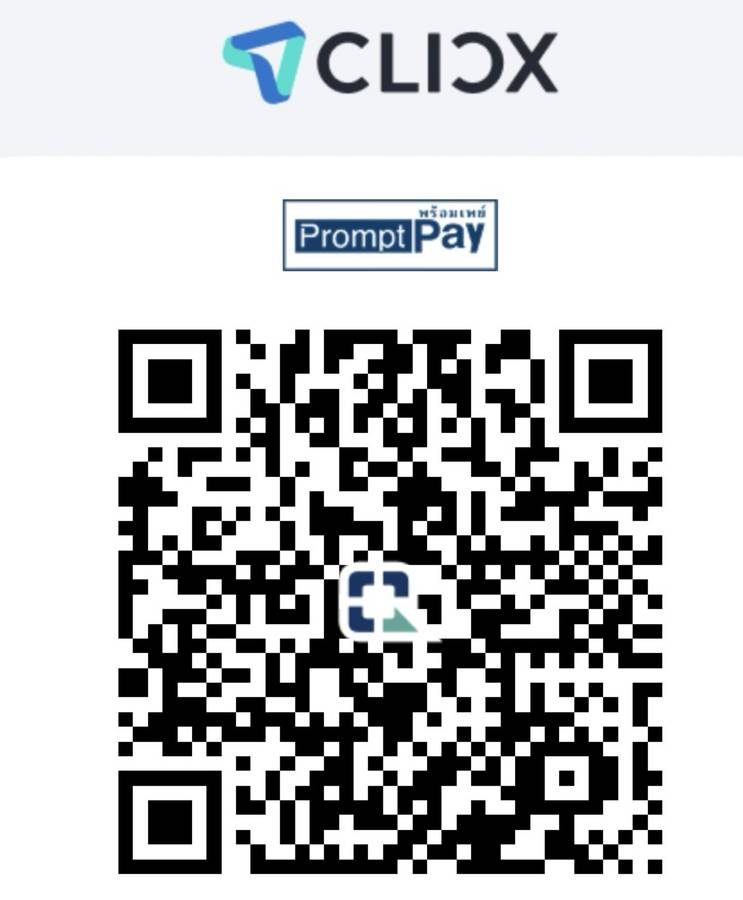
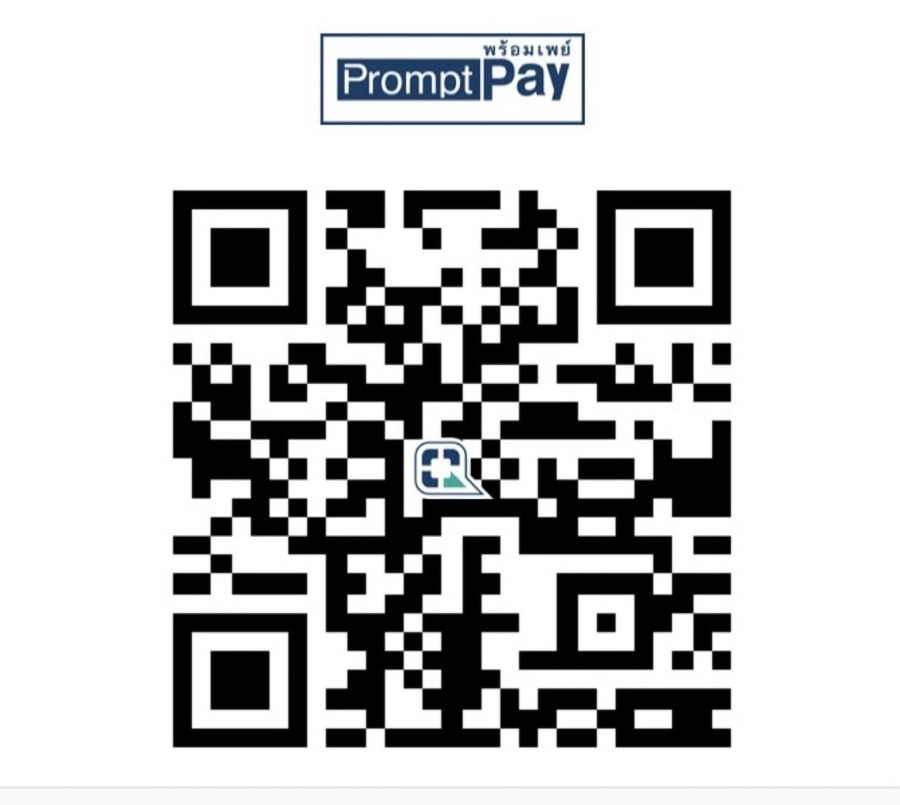
Replace PromptPay deposit QR with new Kasikorn code

diff --git a/src/components/deposit-form.tsx b/src/components/deposit-form.tsx
@@ -116,7 +116,7 @@ export function DepositForm({
             </div>
           ) : (
             <div className="mt-4 overflow-hidden rounded-2xl bg-white p-4">
-              <img src="/promptpay-qr.jpg" alt="QR พร้อมเพย์" className="mx-auto w-full max-w-[280px] object-contain" />
+              <img src="/promptpay-qr.jpg?v=2" alt="QR พร้อมเพย์" className="mx-auto w-full max-w-[280px] object-contain" />
             </div>
           )}
           <label className="relative mt-3 flex h-28 w-full cursor-pointer flex-col items-center justify-center gap-1 rounded-xl border border-dashed border-gold/50 bg-cream text-sm text-muted">
